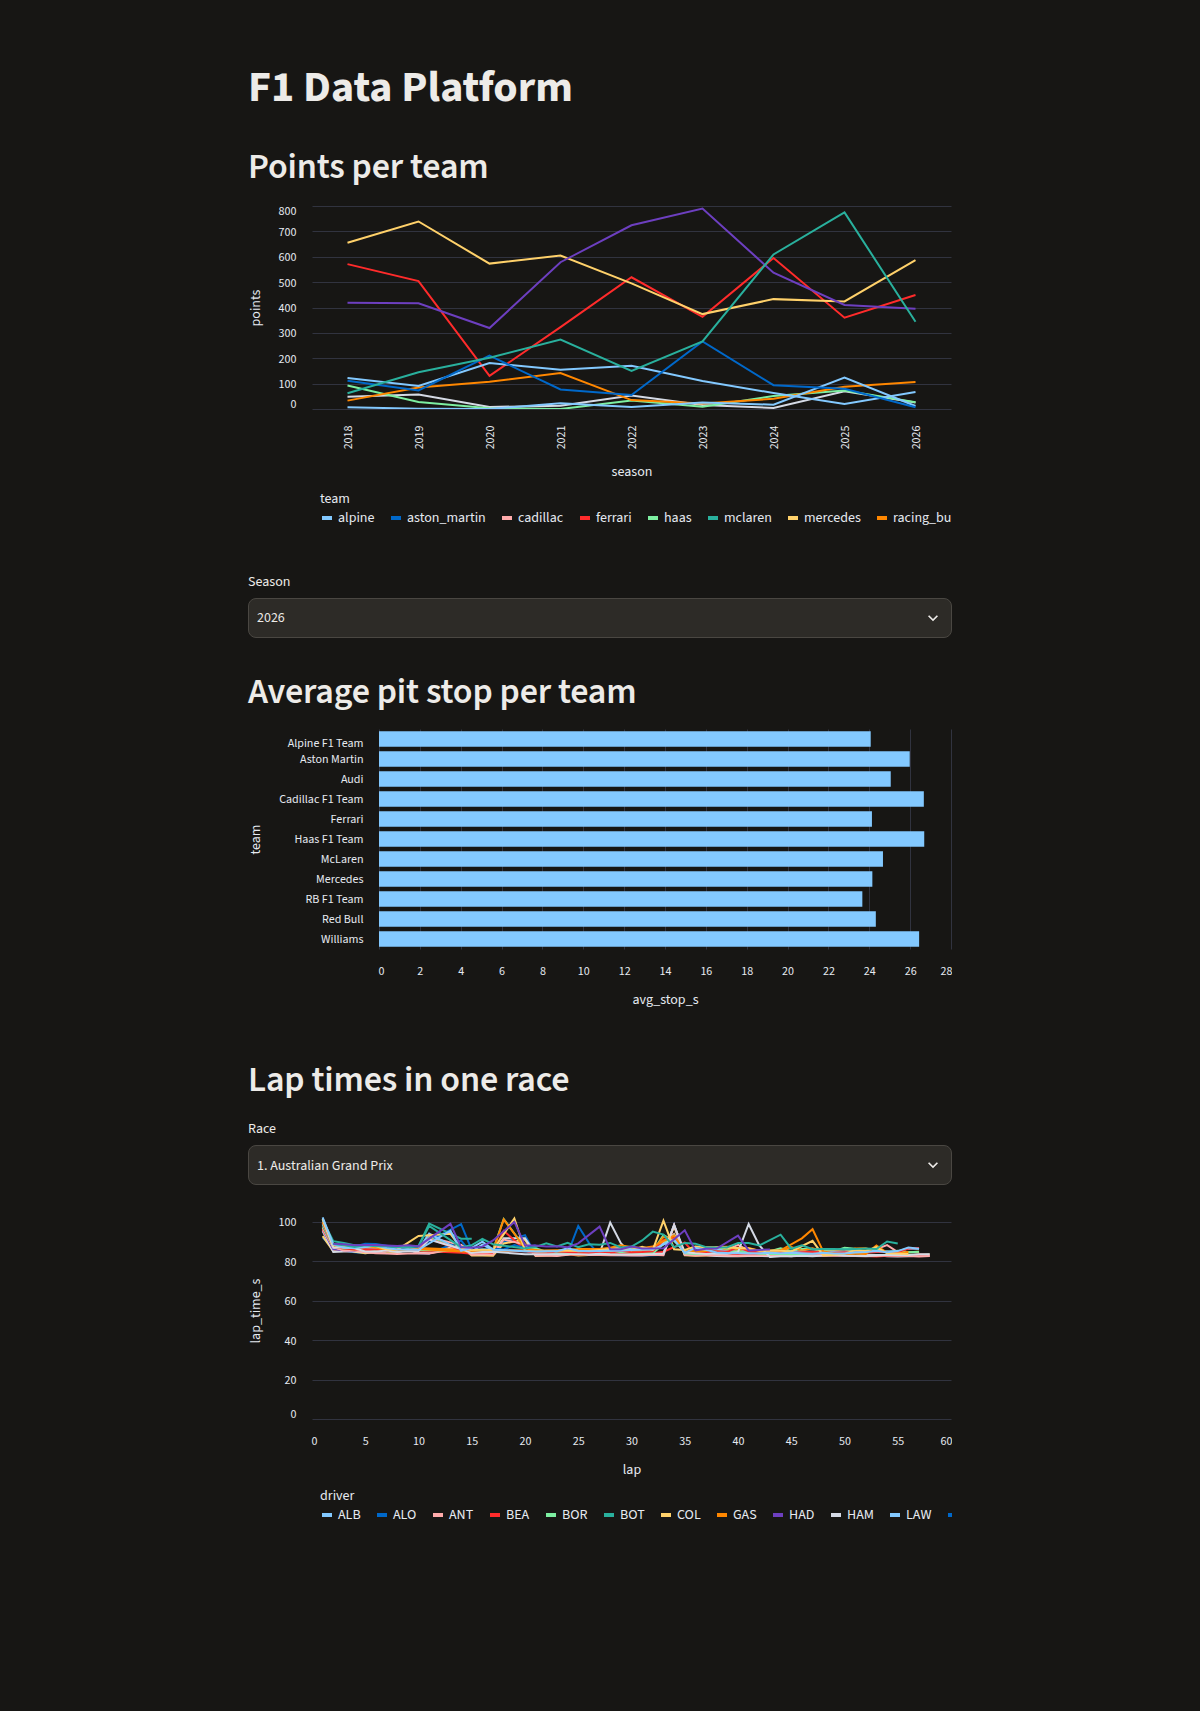
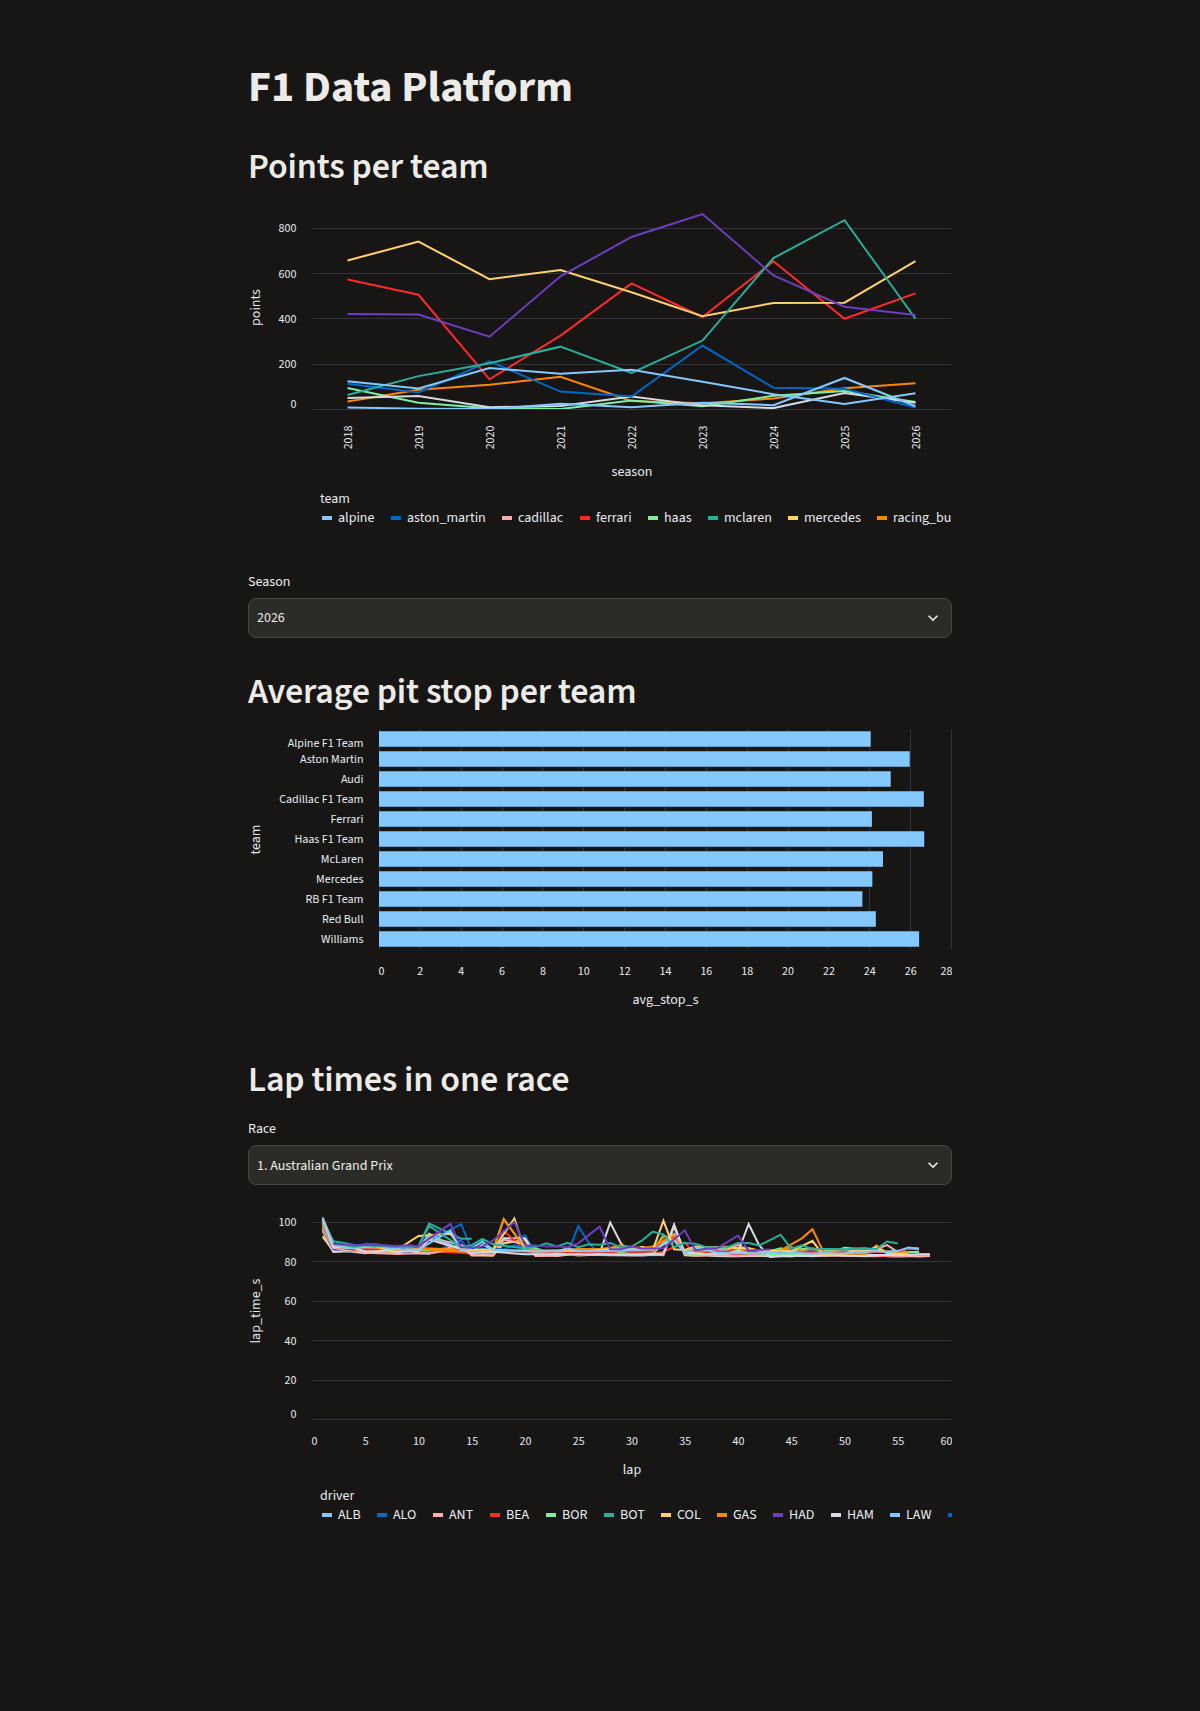
FEAT: dashboard points include sprint races

Changed region(s): [[0.2775, 0.1239, 0.7708, 0.2478], [0.2158, 0.1239, 0.2467, 0.2168]]

diff --git a/dashboard/app.py b/dashboard/app.py
@@ -18,7 +18,11 @@ st.title("F1 Data Platform")
 st.header("Points per team")
 points = query("""
     SELECT r.season::VARCHAR AS season, c.team_lineage AS team, SUM(r.points) AS points
-    FROM marts.fct_race_results AS r
+    FROM (
+        SELECT season, constructor_id, points FROM marts.fct_race_results
+        UNION ALL
+        SELECT season, constructor_id, points FROM marts.fct_sprint_results
+    ) AS r
     JOIN marts.dim_constructor AS c ON r.constructor_id = c.constructor_id
     GROUP BY ALL
     ORDER BY season

diff --git a/docs/usage.md b/docs/usage.md
@@ -102,7 +102,7 @@ Failed downloads are retried 3 times, 30 seconds apart. The dbt test `season_com
 
 `dashboard/app.py` is a [Streamlit](https://streamlit.io) app that reads the marts from `data/f1.duckdb`. It shows:
 
-- points per team per season, using `team_lineage`, so renamed teams stay one line. Only Grand Prix points count: sprint races are not downloaded, so totals are lower than the official standings
+- points per team per season, using `team_lineage`, so renamed teams stay one line. Grand Prix and sprint points together, matching the official standings
 - the average pit stop per team, for the season you pick. Stops over 60 seconds (`is_long_stop` in `fct_pit_stops`: cars waiting in the pit lane during a red flag) are left out
 - lap times per driver in one race. Laps slower than 1.2 × the race median (safety car, red flag) are left out, so the chart doesn't flatten
 
